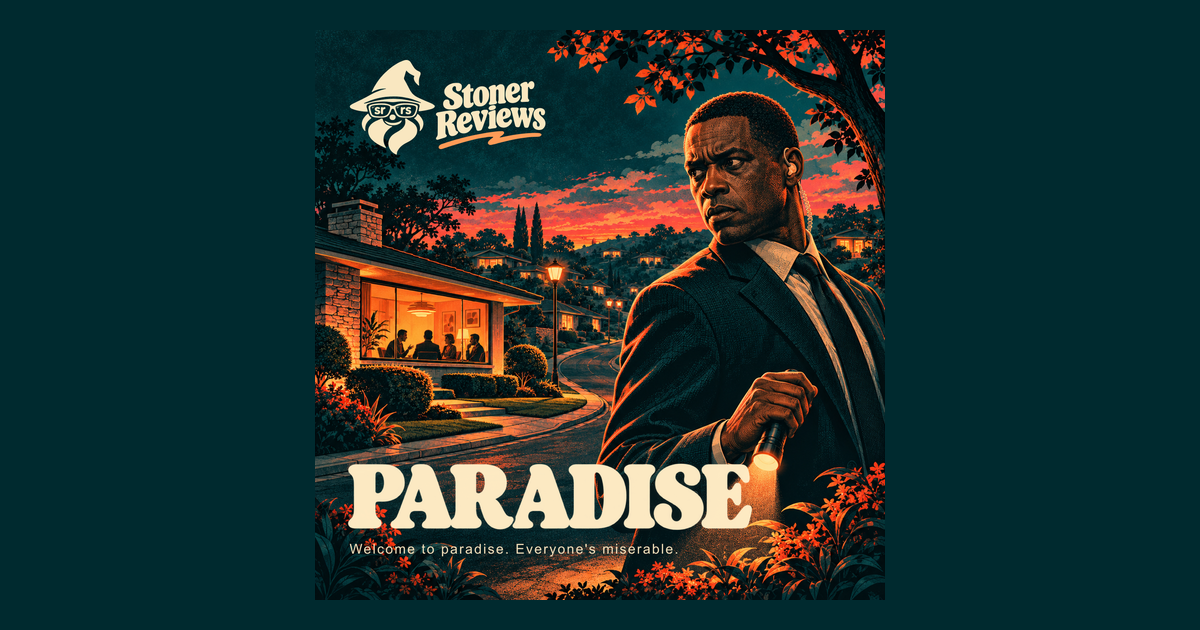
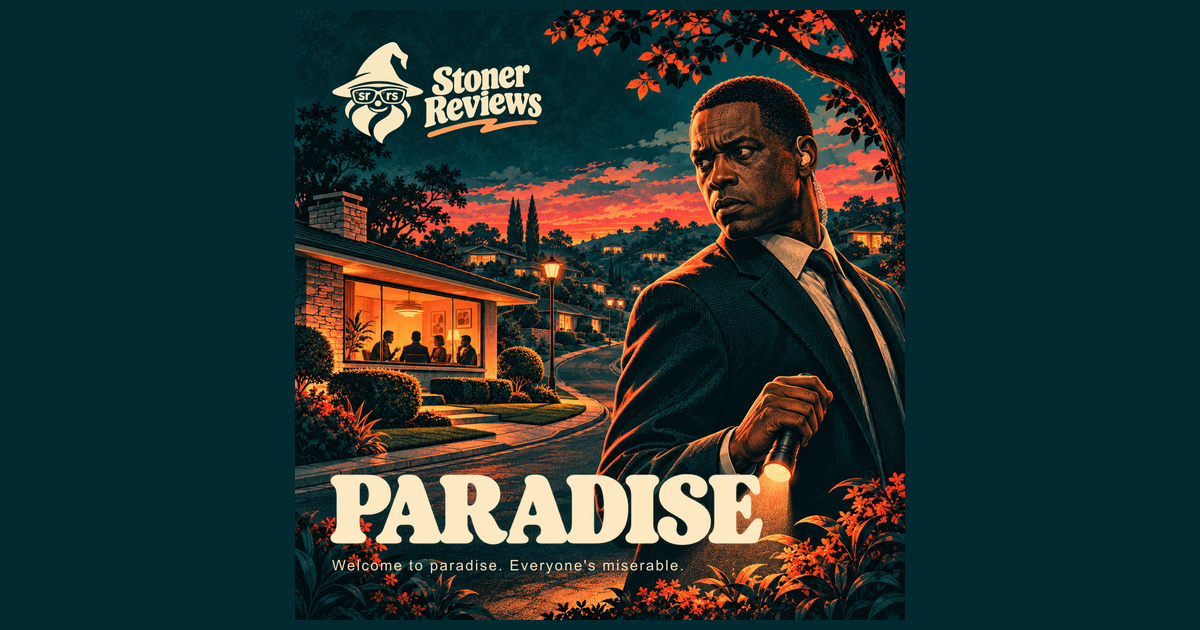
Use year-based review URLs and tighter sharing cards

Changed region(s): [[0.2467, 0.0, 0.7708, 0.9952]]

diff --git a/functions/reviews/[slug].js b/functions/reviews/[slug].js
@@ -1,14 +1,14 @@
 import { CANONICAL_ORIGIN, reviewMetadata, withSocialMetadata } from "../../lib/social-metadata.js";
 import { onRequest as getEditorialReviews } from "../api/editorial-reviews.js";
-import { REVIEW_AUTHOR, renderReview } from "../../Deployment/test-brand-reference-cloudflare/public/review-renderer.js";
+import { REVIEW_AUTHOR, renderReview, reviewSlug } from "../../Deployment/test-brand-reference-cloudflare/public/review-renderer.js";
 
-// The unique editorial slug is the permalink key; no new table or client router.
 export async function onRequestGet(context) {
   const url = new URL(context.request.url);
   const dataResponse = await getEditorialReviews(context);
   const data = await dataResponse.json();
   const review = dataResponse.ok
-    ? data.editorial_reviews.find(review => review.slug === context.params.slug)
+    ? (data.editorial_reviews.find(review => reviewSlug(review) === context.params.slug)
+      ?? data.editorial_reviews.find(review => review.slug === context.params.slug))
     : null;
   const status = !dataResponse.ok ? 503 : review ? 200 : 404;
 
@@ -20,12 +20,12 @@ export async function onRequestGet(context) {
     return response;
   }
 
-  if (review && !url.pathname.endsWith("/")) {
-    url.pathname += "/";
+  const metadata = review ? reviewMetadata(review) : null;
+  if (metadata && url.pathname !== metadata.path) {
+    url.pathname = metadata.path;
     return Response.redirect(url, 308);
   }
 
-  const metadata = review ? reviewMetadata(review) : null;
   const title = review
     ? metadata.title
     : "Review unavailable — Stoner Reviews";

diff --git a/Deployment/test-brand-reference-cloudflare/public/review-renderer.js b/Deployment/test-brand-reference-cloudflare/public/review-renderer.js
@@ -1,5 +1,13 @@
 export const REVIEW_AUTHOR = "Dani Maslo";
 
+export function reviewSlug({ slug, release_year: year }) {
+  return Number.isInteger(year) && !slug.endsWith(`-${year}`) ? `${slug}-${year}` : slug;
+}
+
+export function reviewPath(review) {
+  return `/reviews/${encodeURIComponent(reviewSlug(review))}/`;
+}
+
 // Shared by the Pages Function and the browser so both return the same cards.
 const dimensions = [
   ["fun", "Fun"], ["action", "Action"], ["mind_blowing", "Mind-blowing"],
@@ -75,7 +83,7 @@ function renderRatings(review) {
 export function renderReview(review, { detail = false, eager = true } = {}) {
   const heading = detail ? "h1" : "h2";
   const title = escapeHTML(review.movie_title);
-  const permalink = `/reviews/${encodeURIComponent(review.slug)}/`;
+  const permalink = reviewPath(review);
   const runtime = review.runtime_minutes;
   const watchTime = Number.isInteger(runtime) && runtime > 0
     ? [Math.floor(runtime / 60) ? `${Math.floor(runtime / 60)}h` : "", runtime % 60 ? `${runtime % 60}m` : ""].filter(Boolean).join(" ")
@@ -112,7 +120,7 @@ export function renderReviews(reviews) {
 
 export function renderReviewPreviews(reviews) {
   return reviews.map((review, index) => {
-    const url = `/reviews/${encodeURIComponent(review.slug)}/`;
+    const url = reviewPath(review);
     const title = escapeHTML(review.movie_title);
     // The first poster can be LCP at the wide single-column breakpoint.
     const image = renderArtwork(review, { preview: true, eager: index < 3, priority: index === 0 ? "high" : "auto" });

diff --git a/lib/social-metadata.js b/lib/social-metadata.js
@@ -1,3 +1,5 @@
+import { reviewPath } from "../Deployment/test-brand-reference-cloudflare/public/review-renderer.js";
+
 // Shared server-only metadata. Never derive public identities from request hosts.
 export const CANONICAL_ORIGIN = "https://stoner.reviews";
 const brandImage = {
@@ -36,7 +38,7 @@ export function reviewMetadata(review) {
   const film = `${review.movie_title}${review.release_year != null ? ` (${review.release_year})` : ""}`;
   const image = reviewImages.get(review.movie_slug);
   return {
-    path: `/reviews/${encodeURIComponent(review.slug)}/`,
+    path: reviewPath(review),
     title: `${film} review — Stoner Reviews`,
     // Stored editorial copy only. A missing verdict/tagline must not invent a synopsis.
     description: review.verdict?.trim() || review.tagline?.trim() || "",

diff --git a/tests/check_social_metadata.py b/tests/check_social_metadata.py
@@ -10,8 +10,10 @@ import sys
 import unittest
 from html.parser import HTMLParser
 from urllib.error import HTTPError
-from urllib.parse import quote, urlsplit
+from urllib.parse import urlsplit
 from urllib.request import HTTPRedirectHandler, Request, build_opener
+
+from review_paths import review_path
 
 BASE = (sys.argv.pop(1) if len(sys.argv) > 1 else "http://127.0.0.1:8792").rstrip("/")
 ORIGIN = "https://stoner.reviews"
@@ -129,7 +131,7 @@ class SocialMetadataChecks(unittest.TestCase):
             with self.subTest(slug=review["slug"]):
                 film = review["movie_title"] + (f' ({review["release_year"]})' if review["release_year"] is not None else "")
                 head, body = self.assert_metadata(
-                    f'/reviews/{quote(review["slug"], safe="")}/', film + " review — Stoner Reviews",
+                    review_path(review), film + " review — Stoner Reviews",
                     (review["verdict"] or "").strip() or (review["tagline"] or "").strip(), "article")
                 self.assertEqual(head.meta["og:image:alt"], [f"Illustrated Stoner Reviews poster for {film}."])
                 images.add(head.meta["og:image"][0])
@@ -137,7 +139,7 @@ class SocialMetadataChecks(unittest.TestCase):
         self.assertEqual(len(images), len(self.reviews))
 
     def test_image_responses_match_declared_dimensions_and_type(self):
-        paths = ["/", "/reviews/", "/stoner-scores/"] + [f'/reviews/{quote(r["slug"], safe="")}/' for r in self.reviews]
+        paths = ["/", "/reviews/", "/stoner-scores/"] + [review_path(r) for r in self.reviews]
         checked = set()
         for path in paths:
             head = Head(get(path)[2])
@@ -181,14 +183,14 @@ class SocialMetadataChecks(unittest.TestCase):
 
     @unittest.skipUnless(HARNESS, "Local test entry only")
     def test_database_errors_have_no_indexable_metadata(self):
-        for path in ["/", "/reviews/", f'/reviews/{self.reviews[0]["slug"]}/']:
+        for path in ["/", "/reviews/", review_path(self.reviews[0])]:
             headers = self.assert_unindexable(path, 503, {"x-test-scenario": "database-error"})
             self.assertEqual(headers["Retry-After"], "60")
 
     @unittest.skipUnless(HARNESS, "Local test entry only")
     def test_stored_quotes_ampersands_and_markup_cannot_inject_tags(self):
         head, _ = self.assert_metadata(
-            "/reviews/metadata-escaping/",
+            review_path({**self.reviews[0], "slug": "metadata-escaping"}),
             'A "quote" & <script id="injected">alert(1)</script> (' + str(self.reviews[0]["release_year"]) + ') review — Stoner Reviews',
             'A "verdict" & </title><meta name="injected" content="yes">',
             "article", {"x-test-scenario": "escaping"})
@@ -200,12 +202,12 @@ class SocialMetadataChecks(unittest.TestCase):
         review = self.reviews[0]
         film = f'{review["movie_title"]} ({review["release_year"]})'
         for scenario, description in [("tagline", review["tagline"]), ("empty-description", "")]:
-            self.assert_metadata(f'/reviews/{review["slug"]}/', film + " review — Stoner Reviews",
+            self.assert_metadata(review_path(review), film + " review — Stoner Reviews",
                                  description, "article", {"x-test-scenario": scenario})
 
     @unittest.skipUnless(HARNESS, "Local test entry only")
     def test_alternate_request_host_never_leaks_into_metadata(self):
-        paths = ["/", "/reviews/", "/stoner-scores/"] + [f'/reviews/{r["slug"]}/' for r in self.reviews]
+        paths = ["/", "/reviews/", "/stoner-scores/"] + [review_path(r) for r in self.reviews]
         for path in paths:
             status, _, body = get(path + "?tracking=1", {"x-test-request-host": "alternate.example"})
             self.assertEqual(status, 200)

diff --git a/tests/check_review_url.py b/tests/check_review_url.py
@@ -13,8 +13,10 @@ from html.parser import HTMLParser
 from urllib.error import HTTPError
 from urllib.request import HTTPRedirectHandler, Request, build_opener
 
+from review_paths import review_path
+
 BASE = (sys.argv.pop(1) if len(sys.argv) > 1 else "http://127.0.0.1:8788").rstrip("/")
-PATH = "/reviews/fear-and-loathing-in-las-vegas/"
+PATH = "/reviews/fear-and-loathing-in-las-vegas-1998/"
 
 
 class NoRedirect(HTTPRedirectHandler):
@@ -105,6 +107,11 @@ class ReviewURLChecks(unittest.TestCase):
         self.assertFalse(any(tag == "link" and attrs.get("rel") == "canonical"
                              for tag, attrs in Document(html).elements))
 
+    def test_legacy_review_redirect_preserves_query(self):
+        status, headers, _ = get("/reviews/fear-and-loathing-in-las-vegas/?from=old")
+        self.assertEqual(status, 308)
+        self.assertEqual(headers["Location"], BASE + PATH + "?from=old")
+
     def test_slash_redirect(self):
         status, headers, _ = get(PATH.rstrip("/"))
         self.assertEqual(status, 308)
@@ -134,7 +141,7 @@ class ReviewURLChecks(unittest.TestCase):
         api_status, _, api_body = get("/api/editorial-reviews")
         self.assertEqual(api_status, 200)
         for review in json.loads(api_body)["editorial_reviews"]:
-            path = f'/reviews/{review["slug"]}/'
+            path = review_path(review)
             self.assertIn(f'href="{path}"', html)
             self.assertEqual(get(path)[0], 200)
 
@@ -192,7 +199,7 @@ class ReviewURLChecks(unittest.TestCase):
         self.assertEqual(status, 200)
         for review in json.loads(body)["editorial_reviews"]:
             with self.subTest(review=review["slug"]):
-                status, _, html = get(f'/reviews/{review["slug"]}/')
+                status, _, html = get(review_path(review))
                 self.assertEqual(status, 200)
                 text = normalize("".join(Document(html).text))
                 for block in re.split(r"\n\s*\n", review["body_md"].strip()):
@@ -222,13 +229,13 @@ class ReviewURLChecks(unittest.TestCase):
         for review in reviews:
             if review["slug"] in approved_effort:
                 self.assertEqual(review["brain_effort"], approved_effort[review["slug"]])
-        status, _, html = get("/reviews/the-wolf-of-wall-street/")
+        status, _, html = get("/reviews/the-wolf-of-wall-street-2013/")
         self.assertEqual(status, 200)
         self.assertIn("The Wolf of Wall Street (2013) review — Stoner Reviews", html)
         self.assertIn('datetime="PT180M">3h</time>', html)
         self.assertIn("Brain Effort", html)
         self.assertNotIn("Attention required", html)
-        self.assertEqual(get("/reviews/the-wolf-of-wall-street/")[2], html)
+        self.assertEqual(get("/reviews/the-wolf-of-wall-street-2013/")[2], html)
 
     def test_predator_review_has_approved_seven_scores(self):
         status, _, api = get("/api/editorial-reviews")
@@ -239,7 +246,7 @@ class ReviewURLChecks(unittest.TestCase):
         self.assertEqual(review["tagline"], "The Predator somehow has friends now.")
         self.assertEqual([review[k] for k in ["fun", "action", "mind_blowing", "smart", "feels", "brain_effort", "overall"]],
                          [3, 5, 3, 2, 3, 2, 4])
-        path = "/reviews/predator-badlands/"
+        path = "/reviews/predator-badlands-2025/"
         status, _, html = get(path)
         self.assertEqual(status, 200)
         self.assertIn("Predator: Badlands (2025) review — Stoner Reviews", html)

diff --git a/tests/check_images.py b/tests/check_images.py
@@ -6,8 +6,9 @@ import sys
 import unittest
 from html.parser import HTMLParser
 from urllib.error import HTTPError
-from urllib.parse import quote
 from urllib.request import Request, urlopen
+
+from review_paths import review_path
 
 BASE = (sys.argv.pop(1) if len(sys.argv) > 1 else "http://127.0.0.1:8792").rstrip("/")
 
@@ -65,13 +66,13 @@ class ImageChecks(unittest.TestCase):
         cls.reviews = json.loads(body)["editorial_reviews"]
 
     def test_artwork_is_in_raw_html_with_film_year_alt_and_reserved_space(self):
-        paths = ["/", "/reviews/"] + [f'/reviews/{quote(r["slug"], safe="")}/' for r in self.reviews]
+        paths = ["/", "/reviews/"] + [review_path(r) for r in self.reviews]
         for path in paths:
             with self.subTest(path=path):
                 status, _, body = get(path)
                 self.assertEqual(status, 200)
                 art = [i for i in Images(body).images if i["src"].startswith("/posters/")]
-                reviews = self.reviews if path in ["/", "/reviews/"] else [r for r in self.reviews if path == f'/reviews/{quote(r["slug"], safe="")}/']
+                reviews = self.reviews if path in ["/", "/reviews/"] else [r for r in self.reviews if path == review_path(r)]
                 self.assertEqual(len(art), len(reviews))
                 for index, (image, review) in enumerate(zip(art, reviews)):
                     film = review["movie_title"] + (f' ({review["release_year"]})' if review["release_year"] is not None else "")
@@ -120,7 +121,7 @@ class ImageChecks(unittest.TestCase):
             self.assertEqual([i["loading"] for i in art],
                              ["eager"] * eager_count + ["lazy"] * (len(art) - eager_count))
         for review in self.reviews:
-            art = [i for i in Images(get(f'/reviews/{quote(review["slug"], safe="")}/')[2]).images if "srcset" in i]
+            art = [i for i in Images(get(review_path(review))[2]).images if "srcset" in i]
             self.assertEqual(art[0]["loading"], "eager")
 
     def test_original_public_images_still_resolve(self):
@@ -135,7 +136,7 @@ class ImageChecks(unittest.TestCase):
         tickets = {1: "hard-pass", 2: "maybe-another-night", 3: "worth-the-trip",
                    4: "a-proper-treat", 5: "peak-cinema"}
         for review in self.reviews:
-            path = f'/reviews/{quote(review["slug"], safe="")}/'
+            path = review_path(review)
             with self.subTest(path=path):
                 status, _, body = get(path)
                 self.assertEqual(status, 200)

diff --git a/tests/review_paths.py b/tests/review_paths.py
@@ -1,0 +1,9 @@
+from urllib.parse import quote
+
+
+def review_path(review):
+    slug = review["slug"]
+    year = review.get("release_year")
+    if year is not None and not slug.endswith(f"-{year}"):
+        slug += f"-{year}"
+    return f"/reviews/{quote(slug, safe='')}/"
